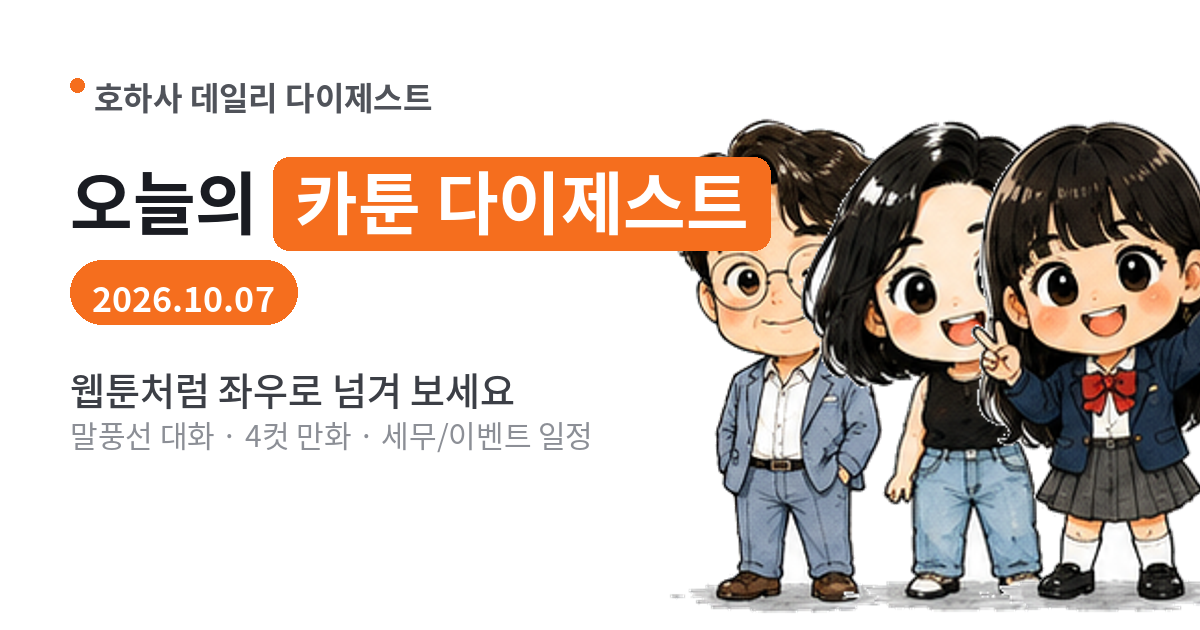
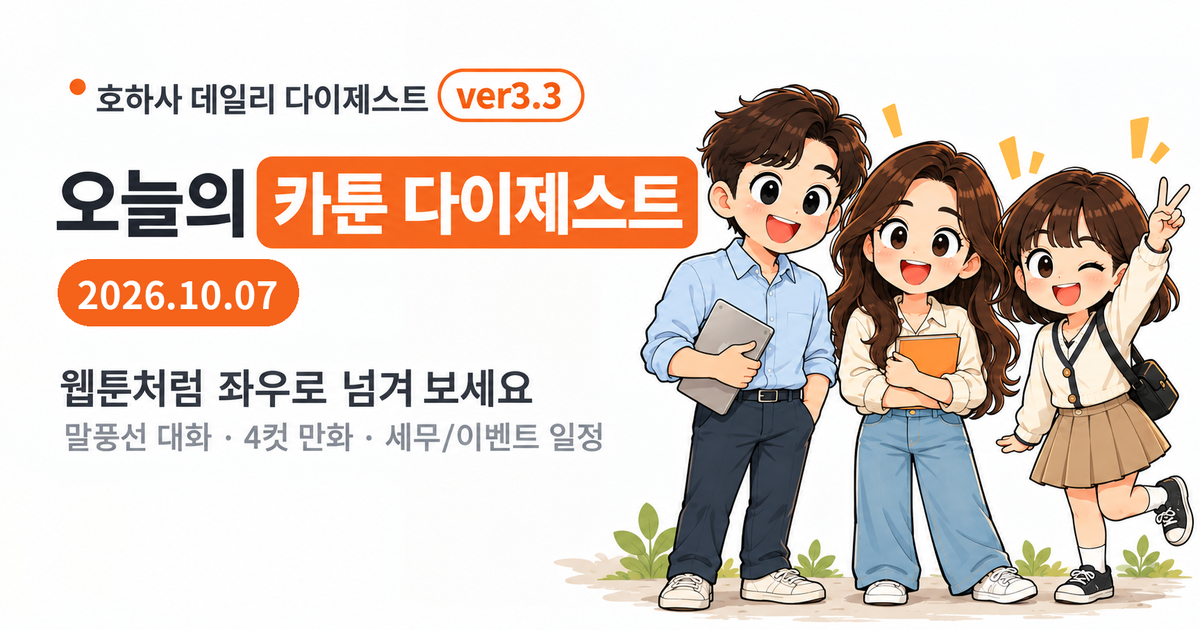
Add files via upload

diff --git a/sibo.html b/sibo.html
@@ -9,7 +9,7 @@
 <meta property="og:site_name" content="호하사 데일리 다이제스트">
 <meta property="og:title" content="서울시보 · 부동산 고시">
 <meta property="og:description" content="재개발 · 정비사업 · 지구단위계획 등 서울특별시 고시를 호마다 정리">
-<meta property="og:image" content="https://ryusw007.github.io/hohasa-pocket/issues/2026-10-07/og2.png?v=20261007">
+<meta property="og:image" content="https://ryusw007.github.io/hohasa-pocket/issues/2026-10-07/og2.png?v=20261007c46688">
 <meta property="og:url" content="https://ryusw007.github.io/hohasa-pocket/sibo.html">
 <link rel="manifest" href="manifest.webmanifest">
 <link rel="apple-touch-icon" href="icon-192.png">

diff --git a/index.html b/index.html
@@ -9,7 +9,7 @@
 <meta property="og:site_name" content="호하사 데일리 다이제스트">
 <meta property="og:title" content="호하사 데일리 다이제스트">
 <meta property="og:description" content="오늘의 카툰 다이제스트 · 웹툰처럼 좌우로 넘겨 보세요">
-<meta property="og:image" content="https://ryusw007.github.io/hohasa-pocket/issues/2026-10-07/og2.png?v=20261007">
+<meta property="og:image" content="https://ryusw007.github.io/hohasa-pocket/issues/2026-10-07/og2.png?v=20261007c46688">
 <meta property="og:url" content="https://ryusw007.github.io/hohasa-pocket/">
 <meta name="twitter:card" content="summary_large_image">
 <link rel="manifest" href="manifest.webmanifest">

diff --git a/viewer.html b/viewer.html
@@ -9,7 +9,7 @@
 <meta property="og:site_name" content="호하사 데일리 다이제스트">
 <meta property="og:title" content="호하사 데일리 다이제스트">
 <meta property="og:description" content="오늘의 카툰 다이제스트 · 웹툰처럼 좌우로 넘겨 보세요">
-<meta property="og:image" content="https://ryusw007.github.io/hohasa-pocket/issues/2026-10-07/og2.png?v=20261007">
+<meta property="og:image" content="https://ryusw007.github.io/hohasa-pocket/issues/2026-10-07/og2.png?v=20261007c46688">
 <meta property="og:url" content="https://ryusw007.github.io/hohasa-pocket/">
 <meta name="twitter:card" content="summary_large_image">
 <link rel="manifest" href="manifest.webmanifest">

diff --git a/news.html b/news.html
@@ -9,7 +9,7 @@
 <meta property="og:site_name" content="호하사 데일리 다이제스트">
 <meta property="og:title" content="호하사 뉴스 브리핑">
 <meta property="og:description" content="오늘의 카툰 다이제스트 · 웹툰처럼 좌우로 넘겨 보세요">
-<meta property="og:image" content="https://ryusw007.github.io/hohasa-pocket/issues/2026-10-07/og2.png?v=20261007">
+<meta property="og:image" content="https://ryusw007.github.io/hohasa-pocket/issues/2026-10-07/og2.png?v=20261007c46688">
 <meta property="og:url" content="https://ryusw007.github.io/hohasa-pocket/">
 <link rel="manifest" href="manifest.webmanifest">
 <link rel="apple-touch-icon" href="icon-192.png">

diff --git a/sw.js b/sw.js
@@ -1,4 +1,4 @@
-const V='20261007145043'; const C='hohasa-'+V; const IMG='hohasa-img'; const IMG_MAX=250;
+const V='20261007151340'; const C='hohasa-'+V; const IMG='hohasa-img'; const IMG_MAX=250;
 
 self.addEventListener('install', e=>{ self.skipWaiting(); });
 
